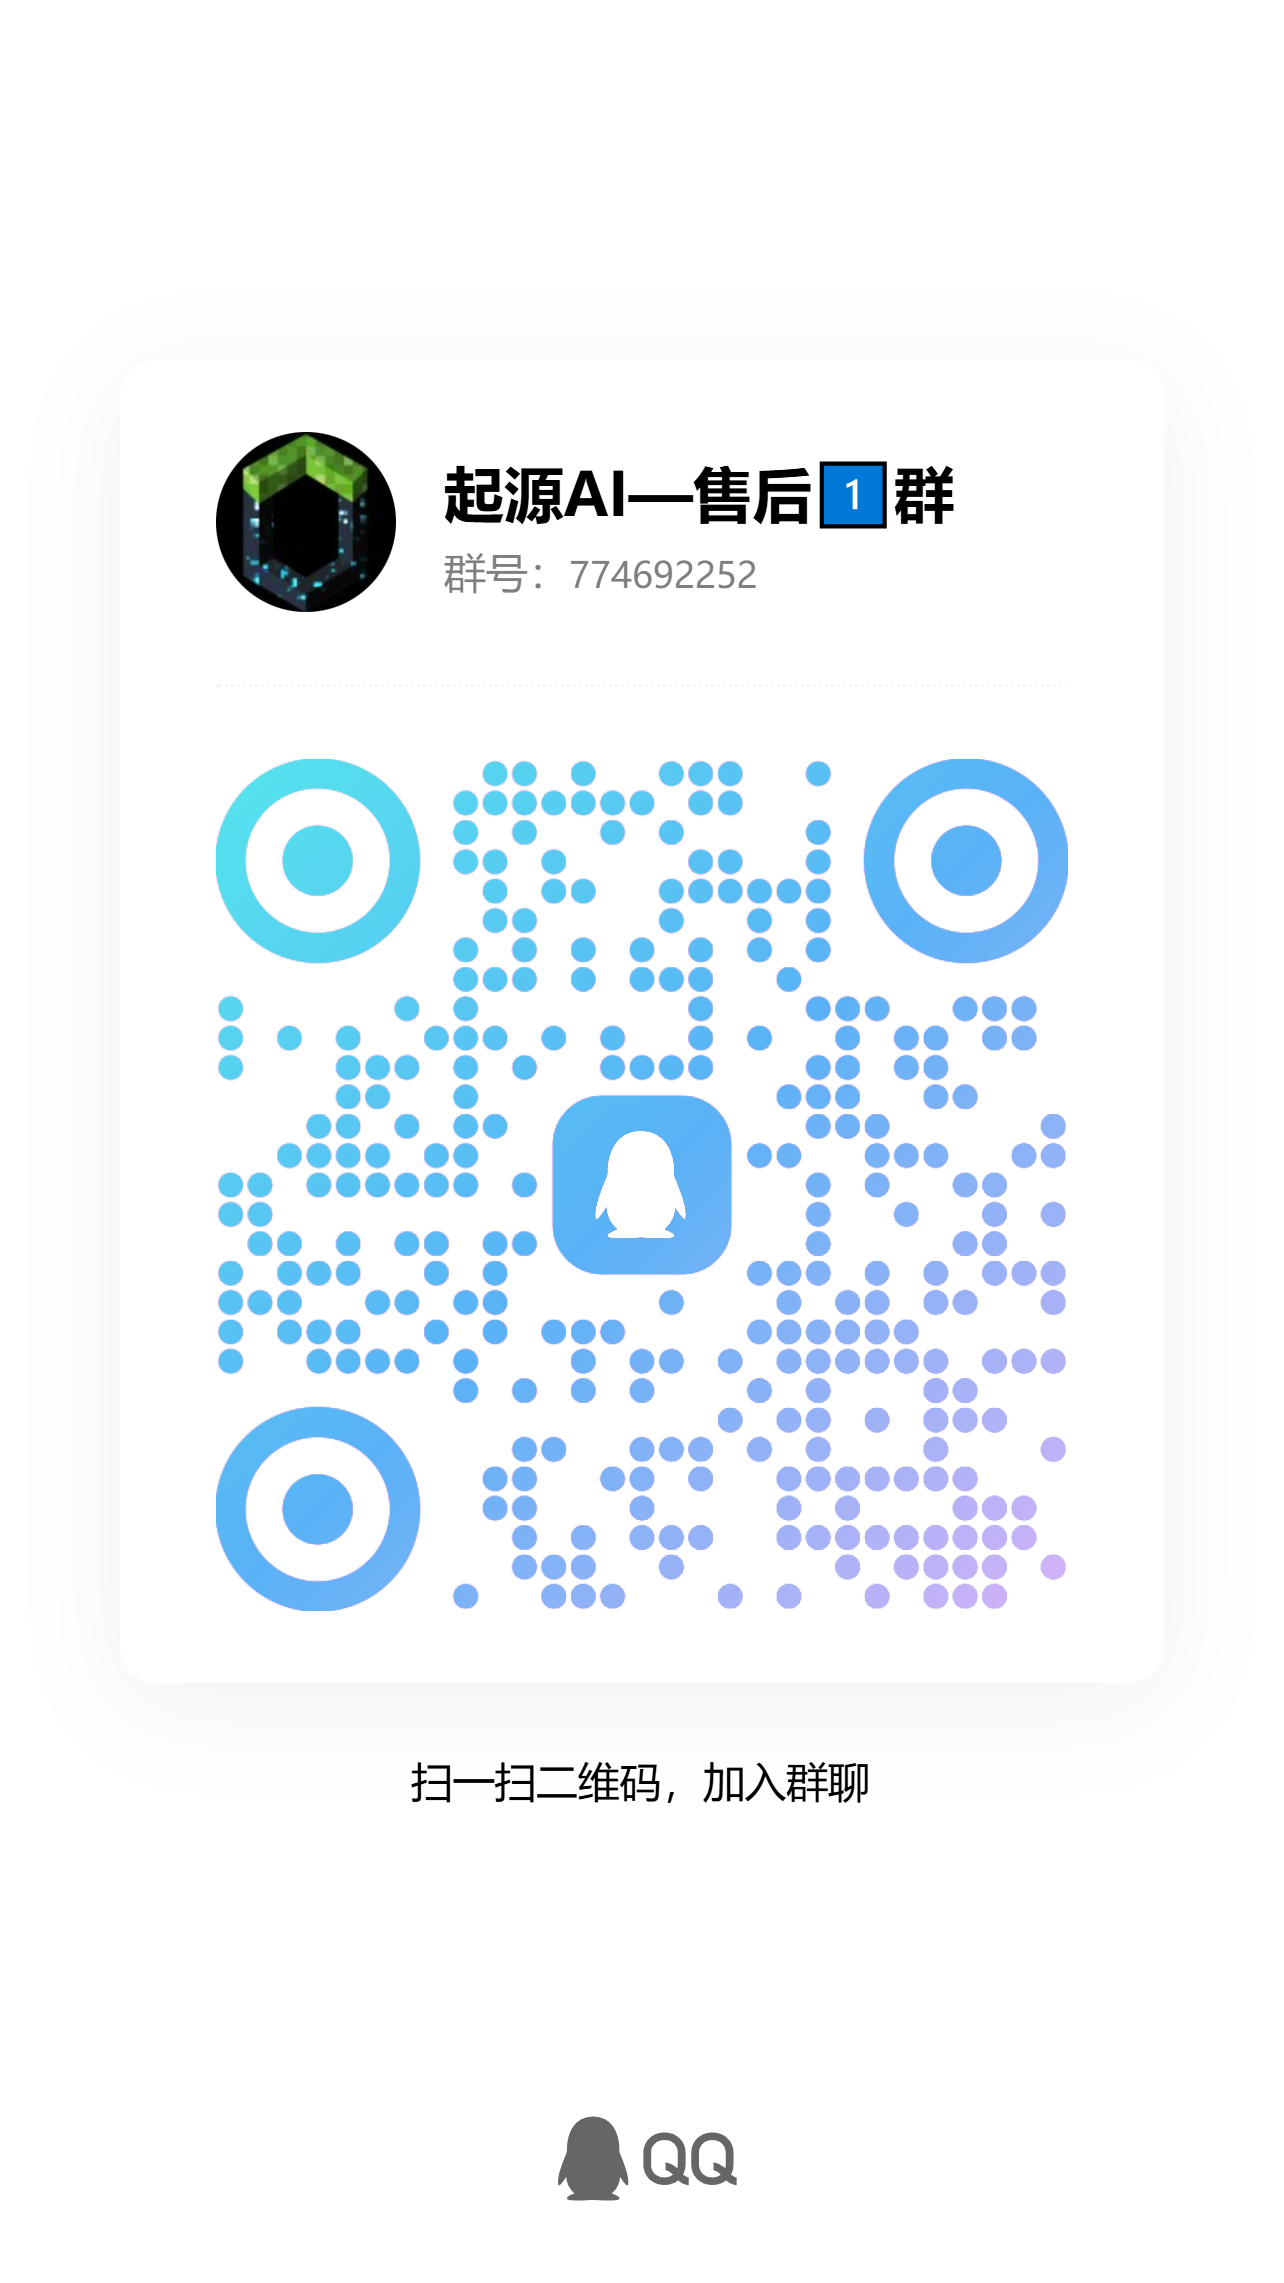
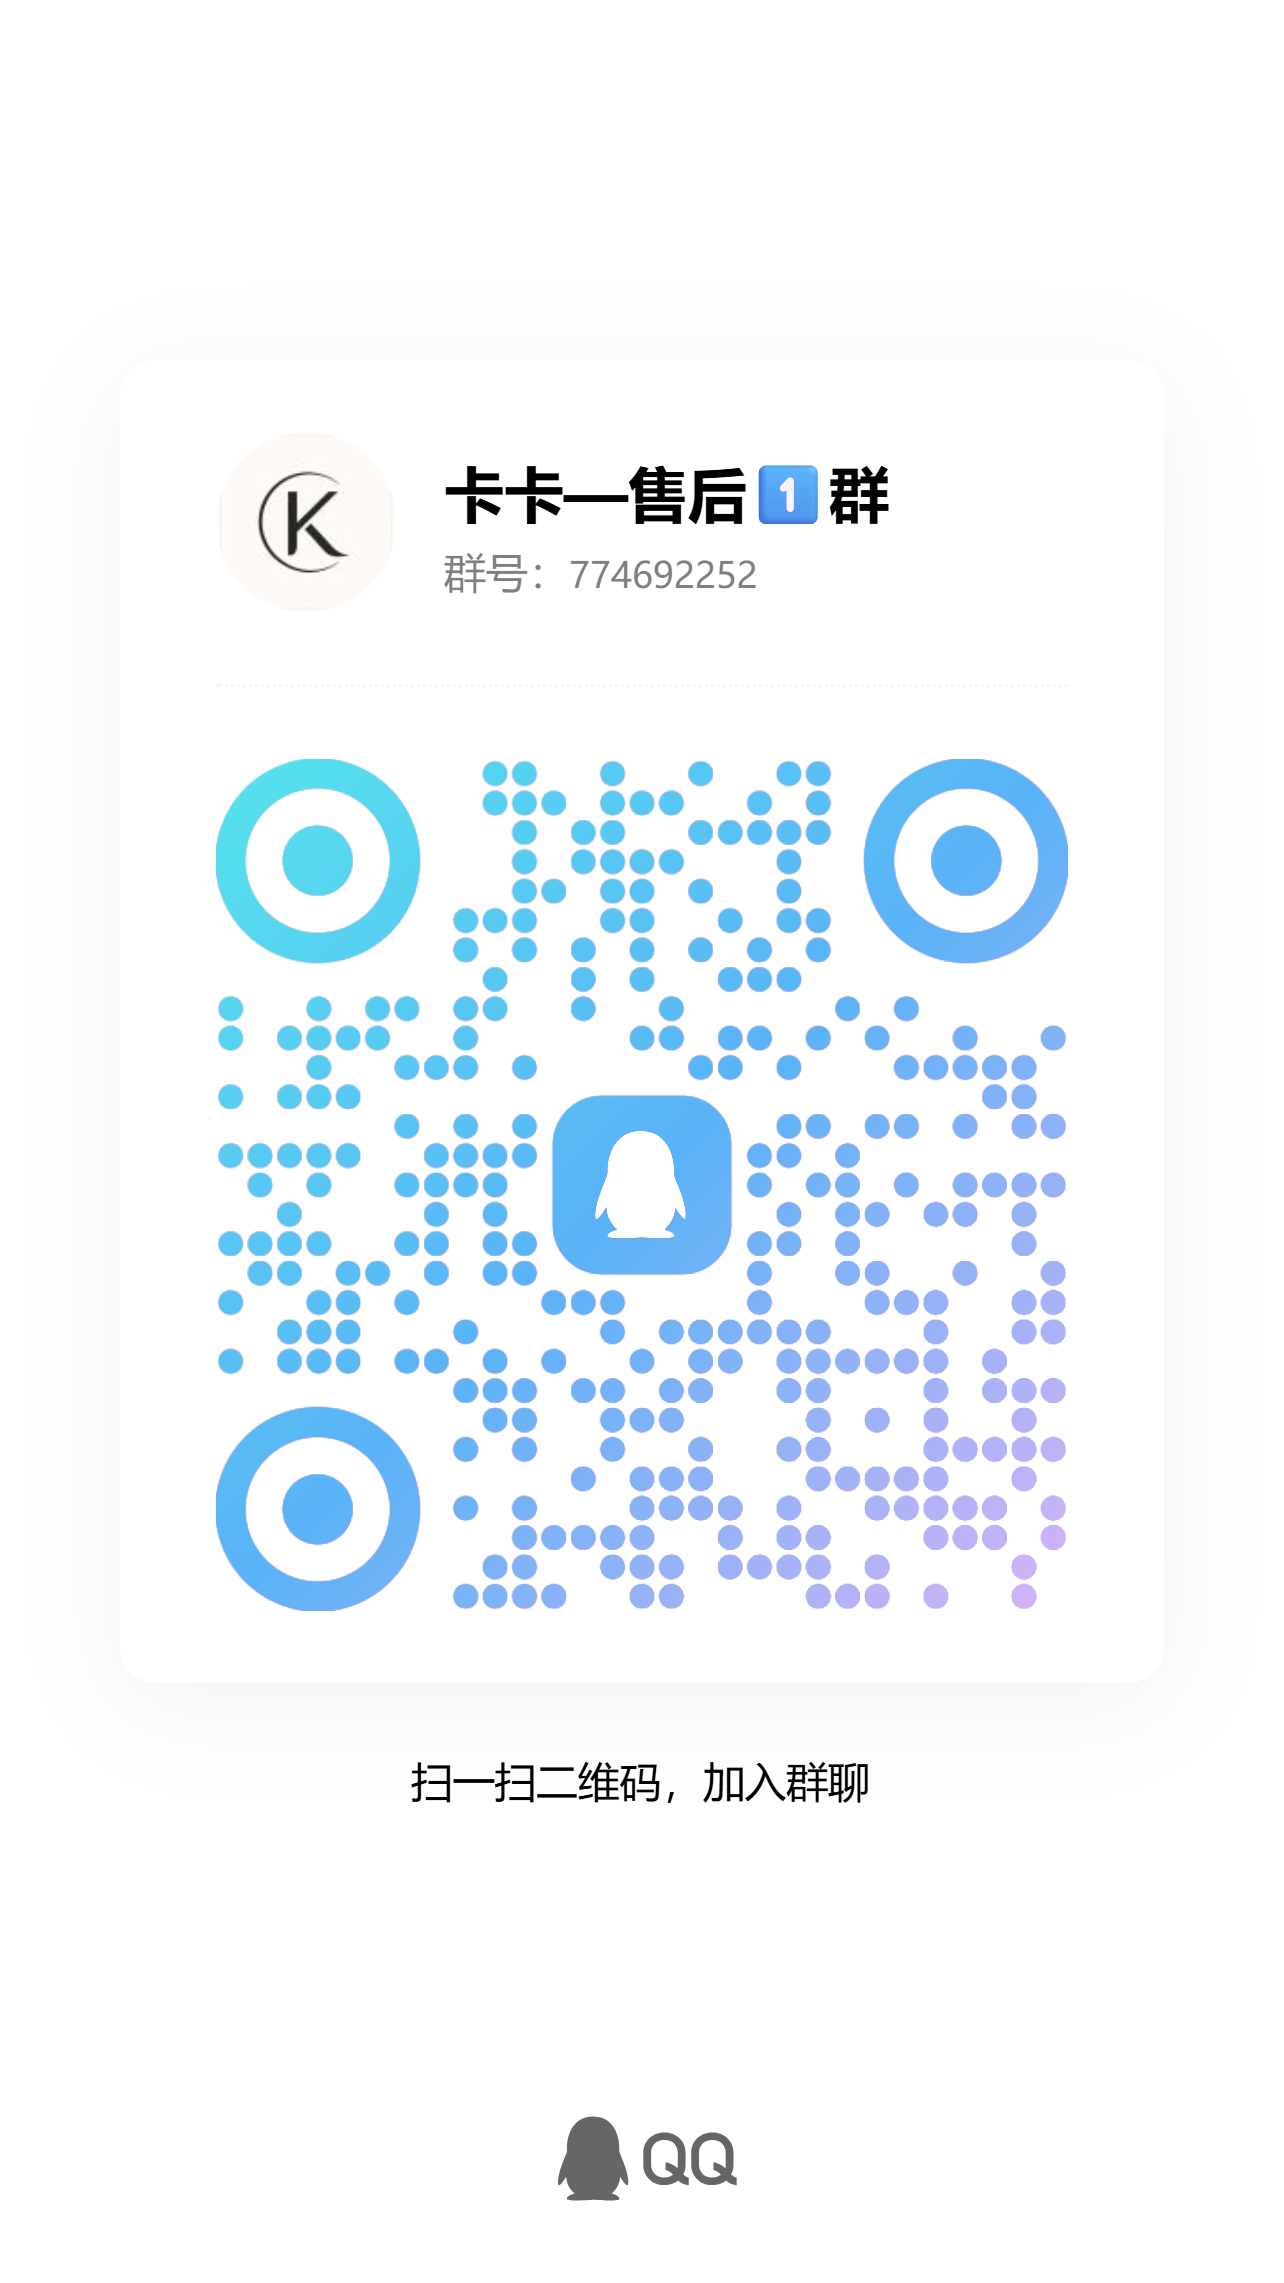
feat: add QQ group 774692252 to home page + user dashboard
- Home: redesigned QQ group section with gradient card, direct join link
- Dashboard QuickActions: added QQ group entry with CTA
- Updated aftersales-qq-group.jpg to new 卡卡AI branded QR code
- Updated contact_info in DB with QQ group link

Changed region(s): [[0.1558, 0.311, 0.8411, 0.7153], [0.3427, 0.1866, 0.7477, 0.2488], [0.1558, 0.1866, 0.3115, 0.2799]]

diff --git a/frontend/src/views/HomeView.vue b/frontend/src/views/HomeView.vue
@@ -200,23 +200,40 @@
 
         <!-- ==================== Community QQ Group ==================== -->
         <section class="mt-20">
-          <div class="mx-auto grid max-w-3xl items-center gap-6 rounded-xl border border-gray-200/50 bg-white/70 p-6 backdrop-blur-sm dark:border-dark-700/50 dark:bg-dark-800/70 md:grid-cols-[1fr_260px] md:p-8">
-            <div class="text-center md:text-left">
-              <p class="mb-2 text-sm font-medium tracking-wider text-primary-500 uppercase">Community</p>
-              <h2 class="text-2xl font-bold text-gray-900 dark:text-white">加入用户交流群</h2>
-              <p class="mt-3 text-base text-gray-500 dark:text-dark-300">不定期发放优惠福利、第一时间获取功能更新和活动通知</p>
-              <div class="mt-4 flex flex-wrap justify-center gap-2 md:justify-start">
-                <span class="rounded-full bg-gray-100 px-3 py-1 text-xs font-medium text-gray-600 dark:bg-dark-700 dark:text-dark-300">活动福利</span>
-                <span class="rounded-full bg-gray-100 px-3 py-1 text-xs font-medium text-gray-600 dark:bg-dark-700 dark:text-dark-300">更新通知</span>
-                <span class="rounded-full bg-gray-100 px-3 py-1 text-xs font-medium text-gray-600 dark:bg-dark-700 dark:text-dark-300">使用答疑</span>
+          <div class="mx-auto max-w-3xl rounded-xl border border-primary-200/60 bg-gradient-to-br from-primary-50/80 to-white p-6 dark:border-primary-700/30 dark:from-dark-800/80 dark:to-dark-900/80 md:p-8">
+            <div class="flex flex-col items-center gap-6 md:flex-row md:items-start">
+              <!-- Left: Text + CTA -->
+              <div class="flex-1 text-center md:text-left">
+                <p class="mb-2 text-sm font-semibold tracking-wider text-primary-500 uppercase">Community</p>
+                <h2 class="text-2xl font-bold text-gray-900 dark:text-white">加入卡卡AI 用户群</h2>
+                <p class="mt-2 text-sm text-primary-600 dark:text-primary-400">🎁 限时不定期发放优惠额度，加群即可使用</p>
+                <p class="mt-1 text-base text-gray-500 dark:text-dark-300">第一时间获取功能更新、活动通知和技术答疑</p>
+                <div class="mt-4 flex flex-wrap justify-center gap-2 md:justify-start">
+                  <span class="rounded-full bg-primary-100 px-3 py-1 text-xs font-medium text-primary-700 dark:bg-primary-900/40 dark:text-primary-300">🎁 优惠福利</span>
+                  <span class="rounded-full bg-gray-100 px-3 py-1 text-xs font-medium text-gray-600 dark:bg-dark-700 dark:text-dark-300">📢 更新通知</span>
+                  <span class="rounded-full bg-gray-100 px-3 py-1 text-xs font-medium text-gray-600 dark:bg-dark-700 dark:text-dark-300">💬 使用答疑</span>
+                </div>
+                <!-- QQ Group link button -->
+                <a
+                  href="https://qm.qq.com/q/IgQv6V7SEw"
+                  target="_blank"
+                  rel="noopener noreferrer"
+                  class="mt-5 inline-flex items-center gap-2 rounded-lg bg-gray-900 px-5 py-2.5 text-sm font-medium text-white transition-colors hover:bg-gray-800 dark:bg-gray-800 dark:hover:bg-gray-700"
+                >
+                  <svg class="h-4 w-4" viewBox="0 0 24 24" fill="currentColor"><path d="M12 2C6.48 2 2 6.48 2 12s4.48 10 10 10 10-4.48 10-10S17.52 2 12 2zm-1 15h-2v-2h2v2zm0-4h-2V7h2v6zm4 4h-2v-2h2v2zm0-4h-2V7h2v6z"/></svg>
+                  点击加入 QQ 群 774692252
+                  <svg class="h-3.5 w-3.5" fill="none" viewBox="0 0 24 24" stroke="currentColor" stroke-width="2"><path stroke-linecap="round" stroke-linejoin="round" d="M4.5 19.5l15-15m0 0H8.25m11.25 0v11.25" /></svg>
+                </a>
               </div>
-            </div>
-            <div class="mx-auto w-full max-w-[260px] overflow-hidden rounded-lg border border-gray-100 bg-white p-3 shadow-sm dark:border-dark-700">
-              <img
-                src="/aftersales-qq-group.jpg"
-                alt="扫码加入交流群"
-                class="w-full object-contain"
-              />
+              <!-- Right: QR Code -->
+              <div class="mx-auto w-full max-w-[240px] shrink-0 overflow-hidden rounded-lg border border-gray-100 bg-white p-3 shadow-sm dark:border-dark-700">
+                <img
+                  src="/aftersales-qq-group.jpg"
+                  alt="扫码加入卡卡AI用户群"
+                  class="w-full object-contain"
+                />
+                <p class="mt-2 text-center text-xs text-gray-400">扫一扫加入群聊</p>
+              </div>
             </div>
           </div>
         </section>

diff --git a/frontend/src/components/user/dashboard/UserDashboardQuickActions.vue b/frontend/src/components/user/dashboard/UserDashboardQuickActions.vue
@@ -48,6 +48,25 @@
           class="text-gray-400 transition-colors group-hover:text-amber-500 dark:text-dark-300"
         />
       </button>
+
+      <!-- QQ Group Card -->
+      <a
+        href="https://qm.qq.com/q/IgQv6V7SEw"
+        target="_blank"
+        rel="noopener noreferrer"
+        class="group flex w-full items-center gap-4 rounded-xl border border-primary-200/60 bg-gradient-to-r from-primary-50/80 to-white p-4 text-left transition-all duration-200 hover:shadow-md hover:shadow-primary-500/5 dark:border-primary-700/30 dark:from-primary-900/20 dark:to-dark-800/50"
+      >
+        <div class="flex h-12 w-12 flex-shrink-0 items-center justify-center rounded-xl bg-primary-100 transition-transform group-hover:scale-105 dark:bg-primary-900/40">
+          <span class="text-xl">💬</span>
+        </div>
+        <div class="min-w-0 flex-1">
+          <p class="text-sm font-medium text-gray-900 dark:text-white">加入卡卡AI 用户群</p>
+          <p class="text-xs text-primary-600 dark:text-primary-400">🎁 限时不定期发放优惠额度，加群即可使用</p>
+        </div>
+        <svg class="h-4 w-4 shrink-0 text-primary-400 transition-transform group-hover:translate-x-0.5" fill="none" viewBox="0 0 24 24" stroke="currentColor" stroke-width="2">
+          <path stroke-linecap="round" stroke-linejoin="round" d="M4.5 19.5l15-15m0 0H8.25m11.25 0v11.25" />
+        </svg>
+      </a>
     </div>
   </div>
 </template>
